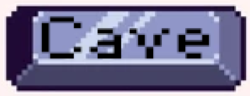
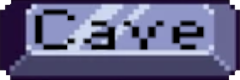
Edited new images and modified the spash screen.

diff --git a/SplashScreen.java b/SplashScreen.java
@@ -18,10 +18,10 @@ public class SplashScreen extends World
     {    
         // Create a new world with 600x400 cells with a cell size of 1x1 pixels.
         super(1000, 1000, 1);
-        showText("Game Programming 1", 500, 100);
-        showText("Game by:", 500, 600);
-        showText("John Benedict Castroverde", 500, 650);
-        showText("Megh Patel", 500, 670);
+        showText("Game Programming 1", 500, 625);
+        showText("Game by:", 500, 780);
+        showText("John Benedict Castroverde", 500, 830);
+        showText("Megh Patel", 500, 850);
         prepare();
     }
 
@@ -42,6 +42,6 @@ public class SplashScreen extends World
     private void prepare()
     {
         VanierLogo vanierLogo = new VanierLogo();
-        addObject(vanierLogo,500,850);
+        addObject(vanierLogo,500,950);
     }
 }
